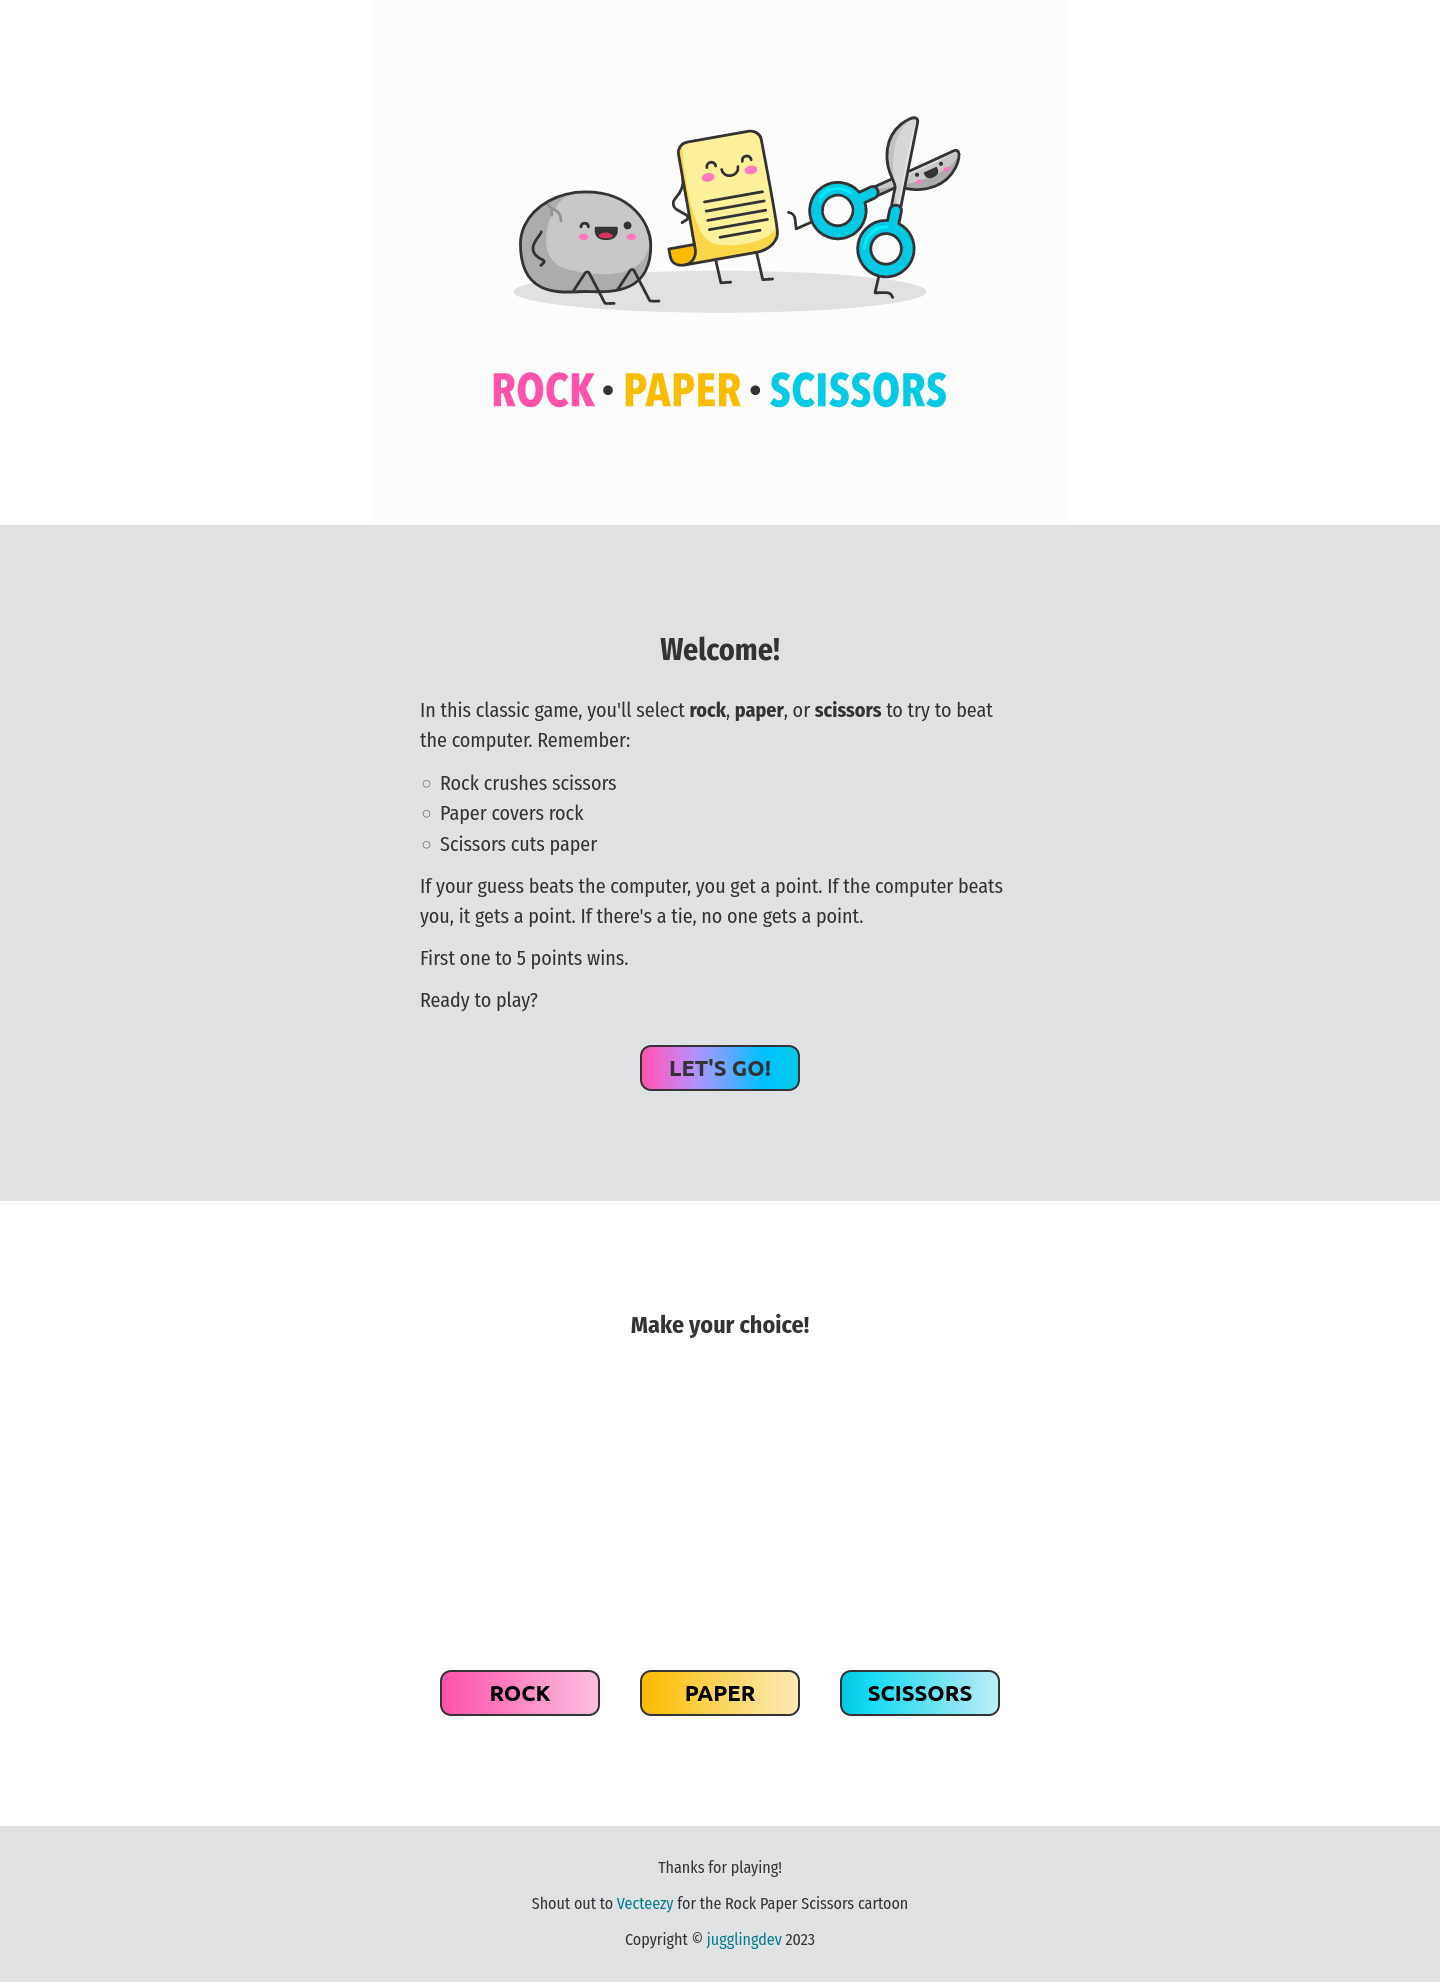
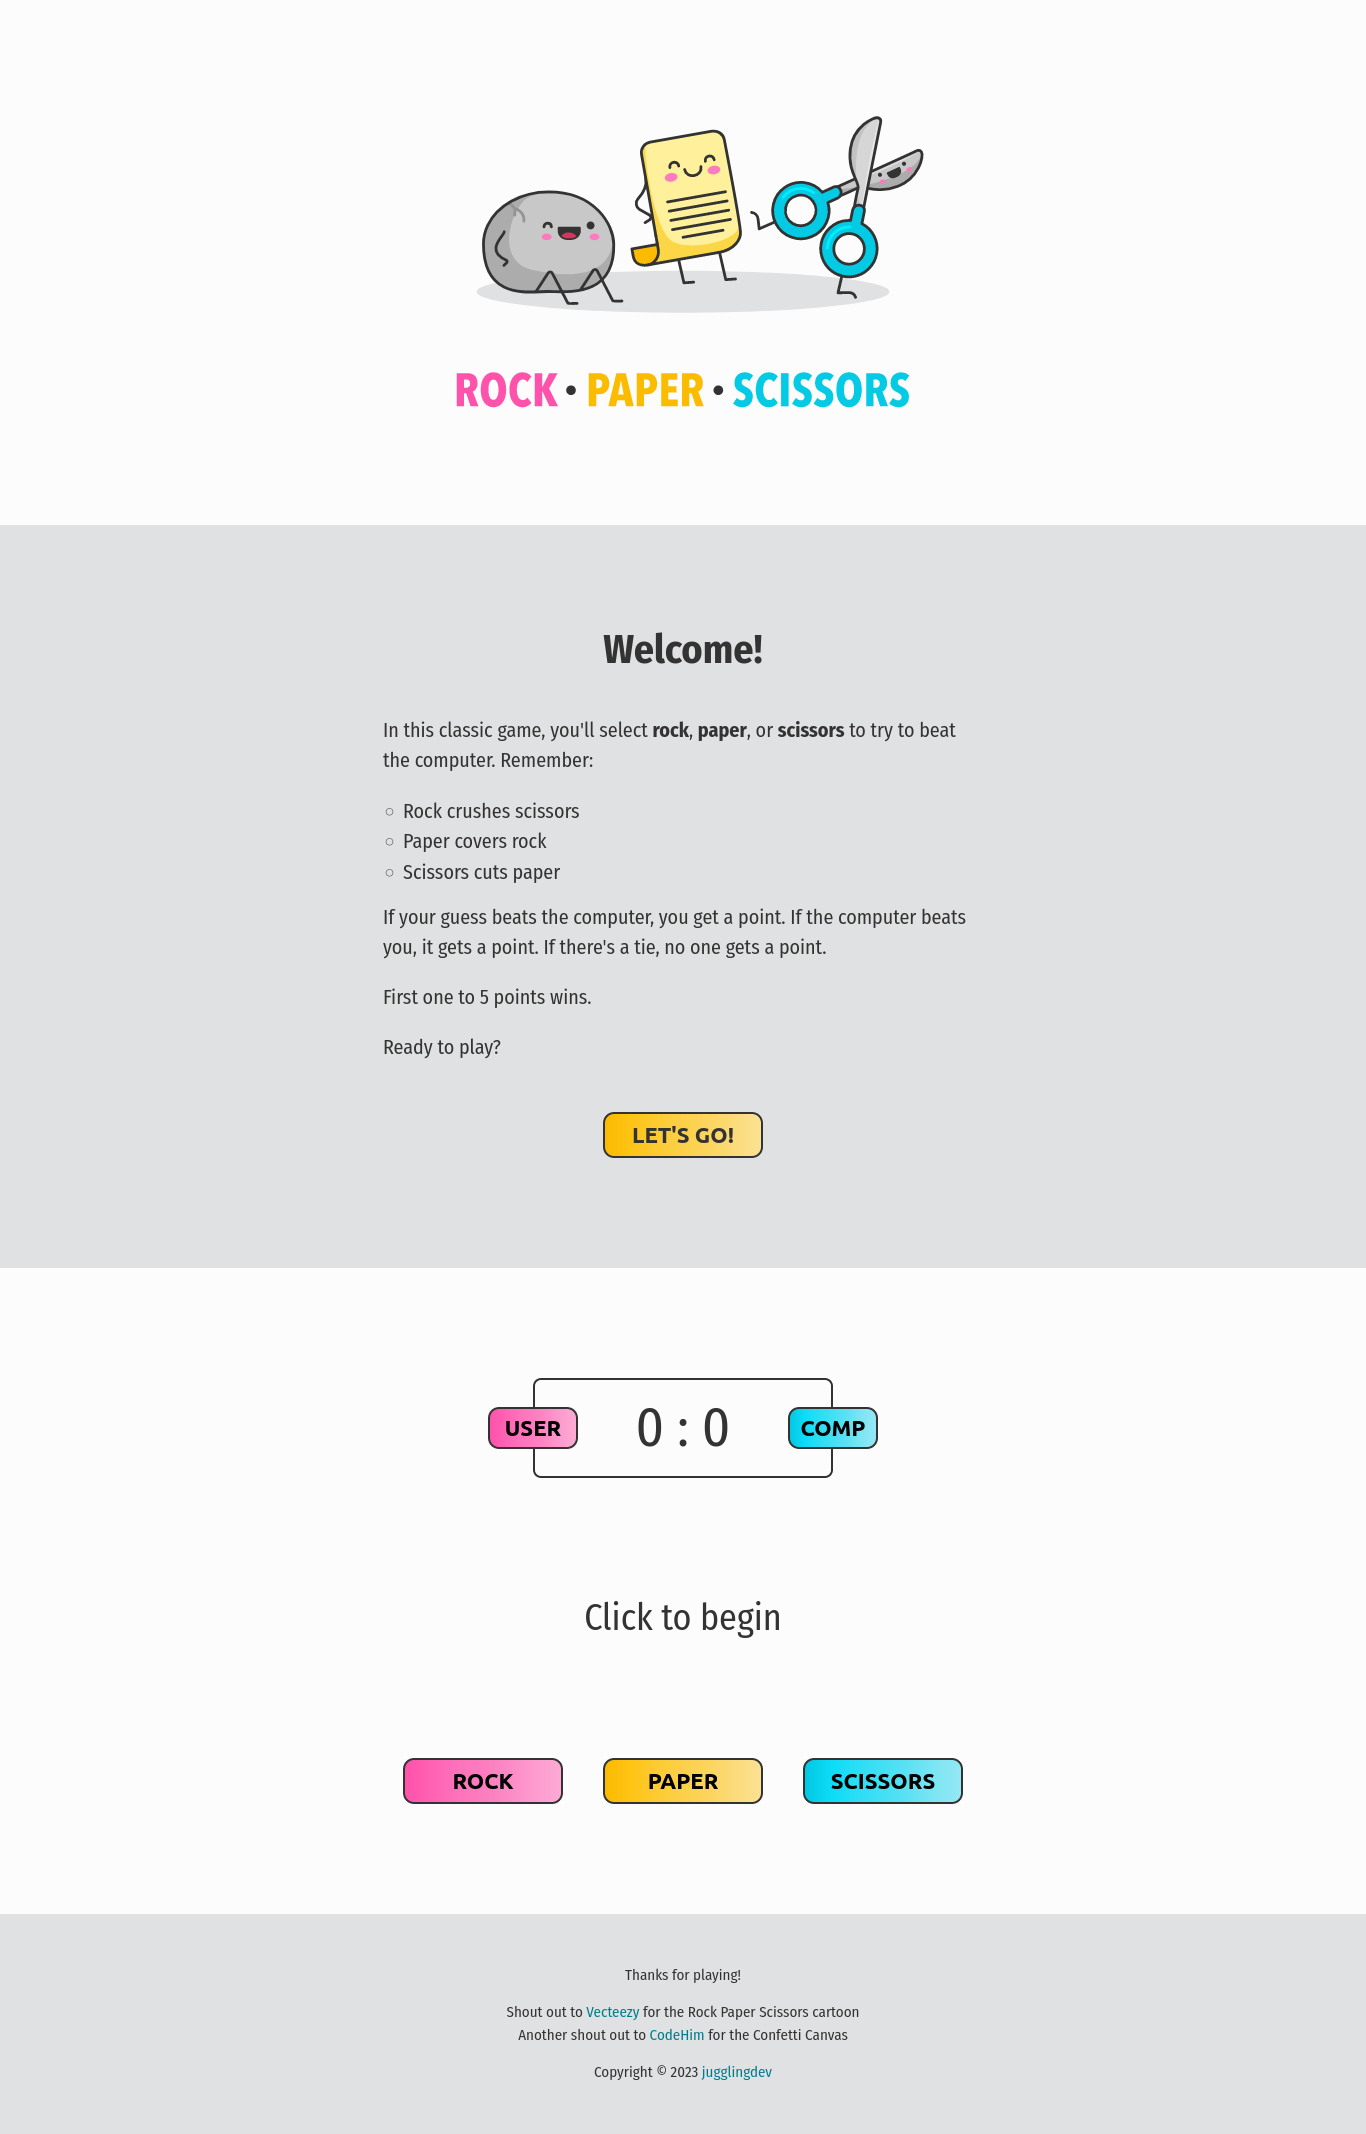
Update README.md content

diff --git a/README.md b/README.md
@@ -43,25 +43,33 @@ Wow!  Being only a week or so into JavaScript, this project took longer than exp
 
 The biggest thing that helped me do this was breaking down the project into smaller bits.  Once I got a particular function working, I would then move on to the next.  There were some times where I had to go back and tweak a previous function, but this method still helped me stay focused and make steady progress.
 
-The game was originally coded to be played in the console.  Later, I added a colorful UI to build upon my HTML and CSS skills for a fun user experience.  This required refactoring the JavaScript, which was tough but good practice.
+The game was originally coded to be played in the console with 5 rounds.  Later, I added a colorful UI to build upon my HTML and CSS skills for a fun user experience and declared a winner as the first to 5 points.  This required refactoring the JavaScript, which was tough but good practice.
 
 For the UI, I had a lot of fun learning how to do beautiful color gradients that don't grey out in the middle.  I found a super useful tool for this task that is linked below.
 
-I also brought back some CSS skills like `flexbox`, `pseudo-classes`, favicons, relative links, and even relative and absolute positioning for the nifty scoreboard and confetti canvas.
+I also brought back some CSS skills like `flexbox`, `pseudo-classes`, favicons, relative links, and even relative and fixed positioning for the nifty scoreboard and confetti canvas.
 
 A new CSS property I learned was `scroll-behavior: smooth`.  It's perfect for when the user clicks the relative links to scroll down and start the game.  I also used `cursor: pointer` for the second time since the rock, paper, and scissors buttons aren't links that automatically switch the cursor to the pointer style.
 
-You know how some websites just have all these little hidden gems?  Well, since I learned how to `transition` buttons in CSS, I decided to make the `USER` and `COMP` labels as buttons so they could transition on a hover, even though they don't interact with the JavaScript or link anywhere.  It's just one of those sweet things to make the player smile.
+You know how some websites just have all these little hidden gems?  Well, since I learned how to `transition` buttons in CSS, I decided to make the `USER` and `COMP` labels as buttons so they could transition on a hover, even though they don't interact with the JavaScript or link anywhere.  It's just one of those sweet things to make the player smile.  
 
-Let's talk about the confetti.  If you haven't played it yet, please do so and you'll know what I'm talking about (if you can beat the computer, that is).  This feature makes me so happy, but I did have to work for it!  I haven't worked with anything `<canvas>` before, so this was all based out of my own research.  I knew I wanted a little confetti celebration, and fortunately, I found some code for it from [CodeHim](https://www.codehim.com/animation-effects/javascript-confetti-explosion-effect/).  
+To make the button transitions work with I used [Josh W. Comeau's Gradient Generator](https://www.joshwcomeau.com/gradient-generator/) to make a background that went from darker shade to lighter shade back to darker shade.  Then, I set the background to where it would show the first half(ish) of those colors and on a hover, slide to the second half.  The result is a neat little round-a-bout animation.
 
-z-indez, absolute positioning (fixed???)
+Another transition I worked in was for the text announcing the results of the round.  This was fairly simple, but also new, as I set up a `.fade` class in the CSS that is removed with a JS function with each button click.  The transition above used `setTimeout` as did the final function that invites you to click to play again at the end of the game.
 
-transition for buttons - reworked linear-gradient, background bigger
+You know how you make a feature and then find out that that cool feature bumps into something else?  This happened with the that last function.  I had set a timeout to display the text `Click to play again` 3 seconds after the end of a game.  Cool!  But what if a player jumped right in and clicked to restart?  Well, that silly text would still pop up even if the player started clicking `rock` or `scissors`.  The text was set to appear after 3 seconds and that's what it wanted to do.  So, I had to write another function to clear that timeout in the event that the user started clicking away.  It's a great example of debugging and covering all your bases as you add features.
+
+Alright, let's talk about the confetti.  If you haven't played it yet, please do so and you'll know what I'm talking about (if you can beat the computer, that is).  This feature makes me so happy, but I did have to work for it!  I haven't worked with anything `<canvas>` before, so this was all based out of my own research.  I knew I wanted a little confetti celebration, and fortunately, I found some code for it from [CodeHim](https://www.codehim.com/animation-effects/javascript-confetti-explosion-effect/).  It took a little tweaking with fixed positioning and the z-index to get everything just right, but the celebration makes me so happy.  It was also fun to customize the confetti colors.
+
+The last update I made to this project was mobile responsiveness.  I wasn't going to make it responsive at first, but I was so proud of this project that I wanted to show friends and family.  Knowing that some may be accessing the project via phone, I couldn't just leave it at the desktop.  I compromised and made a mobile responsive version for screens less than 425px.  Normally, I would approach a responsive project with a mobile first mindset, but this one didn't call for it, so the responsive design was an added bonus at the end.
+
+Overall, this project was a blast.  It was hard, but it was worth it and I'm so happy I chose to learn so many new things during the process.  It turns out I really do enjoy working on the front-end.
 
 ### Continued development
 
-The biggest challenge with this project was figuring out the JavaScript.  I hear so many developers urge coding newbies to work on their logic and I definitely see why!  This is by far the skill I would most like to work on.  In the future, I will seek opportunities to read other developers' code so I can learn how to keep everything clean and tidy.
+The biggest challenge with this project was figuring out the JavaScript.  I hear so many developers urge coding newbies to work on their logic and I definitely see why!  This is by far the skill I would most like to work on.  In the future, I will seek opportunities to read other developers' code so I can learn how to keep everything clean and tidy.  Until then, I've got a project I can look back on in 5 years and gasp at while saying, "My my, Kayla.  Look how far you've come."
+
+On the design side of things, I am very interested in incorporating more button styles and those subtle CSS features that make websites really stand out.
 
 ### Useful resources
 
@@ -85,13 +93,7 @@ The biggest challenge with this project was figuring out the JavaScript.  I hear
 
 ## Author
 
-- GitHub - [@jugglingdev](https://github.com/jugglingdev)
-
-- freeCodeCamp - [@jugglingdev](https://www.freecodecamp.org/jugglingdev)
-
-- Frontend Mentor - [@jugglingdev](https://www.frontendmentor.io/profile/jugglingdev)
-
-- LinkedIn - [Kayla Paden](https://www.linkedin.com/in/kayla-marie-paden)
+- Kayla Paden - Find me at [GitHub](https://github.com/jugglingdev), [freeCodeCamp](https://www.freecodecamp.org/jugglingdev), [Frontend Mentor](https://www.frontendmentor.io/profile/jugglingdev), [LinkedIn](https://www.linkedin.com/in/kayla-marie-paden)
 
 ## Acknowledgments
 
